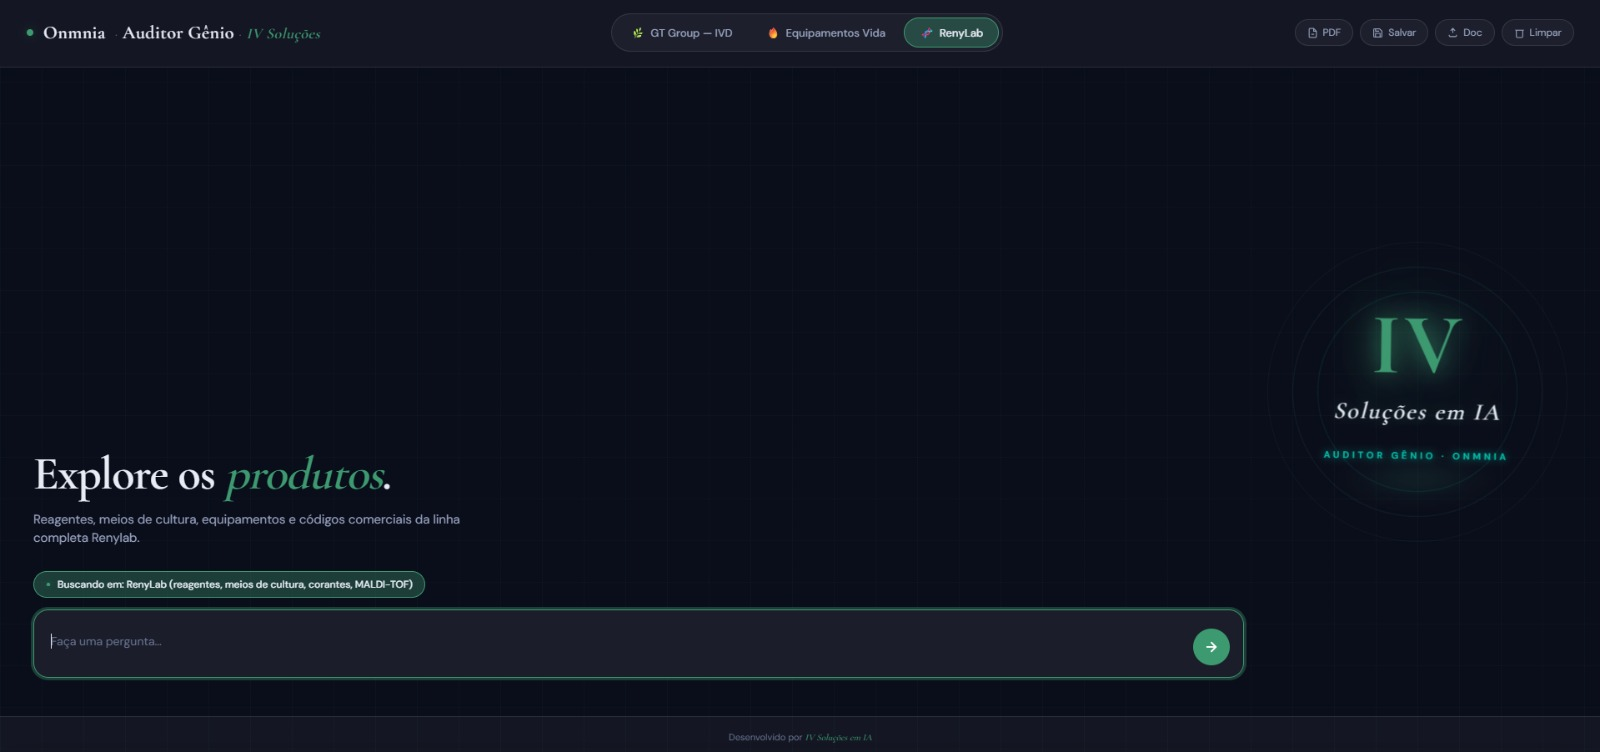
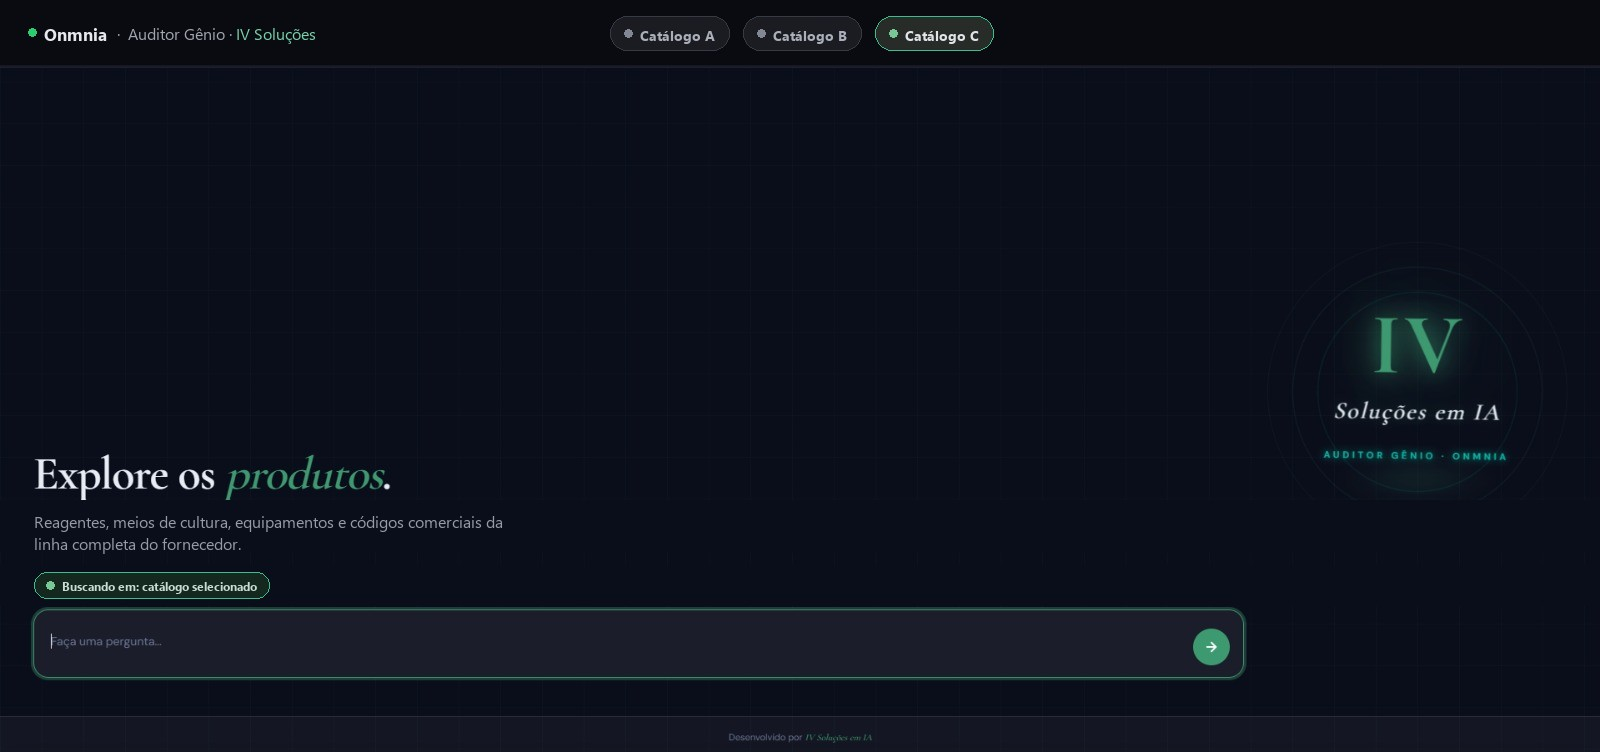
fix: anonimizar imagens de portfolio, sitemap villas-park e ano dinamico
- siem.jpg: substituido por mockup neutro (sem logo/nome da Rede Paulo
  de Tarso, sem marca "SIEM", sem "HPT & SUNTOR"), mesmo estilo visual
  IV (navy + acento azul-violeta).
- auditor-genio.jpg: nomes de fornecedor (GT Group, Equipamentos Vida,
  RenyLab) substituidos por rotulos genericos "Catalogo A/B/C" no topo
  e no texto/pilula do corpo.
- logo-original.png (5,6MB, 0 referencias no codigo): removido.
- sitemap.ts: inclui /privacidade/villas-park (pagina LGPD de loja,
  precisa ser indexavel).
- Footer.tsx: ano do copyright passa a ser new Date().getFullYear()
  em vez de valor fixo 2026.

diff --git a/app/sitemap.ts b/app/sitemap.ts
@@ -11,12 +11,13 @@ export default function sitemap(): MetadataRoute.Sitemap {
     "/portfolio",
     "/contato",
     "/privacidade",
+    "/privacidade/villas-park",
   ];
   const lastModified = new Date();
   return routes.map((path) => ({
     url: `${site.url}${path}`,
     lastModified,
     changeFrequency: "monthly",
-    priority: path === "" ? 1 : path === "/privacidade" ? 0.3 : 0.8,
+    priority: path.startsWith("/privacidade") ? 0.3 : path === "" ? 1 : 0.8,
   }));
 }

diff --git a/components/Footer.tsx b/components/Footer.tsx
@@ -8,7 +8,7 @@ import { site, whatsappLink } from "@/lib/site";
 
 export function Footer() {
   const { t } = useLang();
-  const year = 2026;
+  const year = new Date().getFullYear();
 
   const links = [
     { href: "/sobre", label: t.nav.about },
